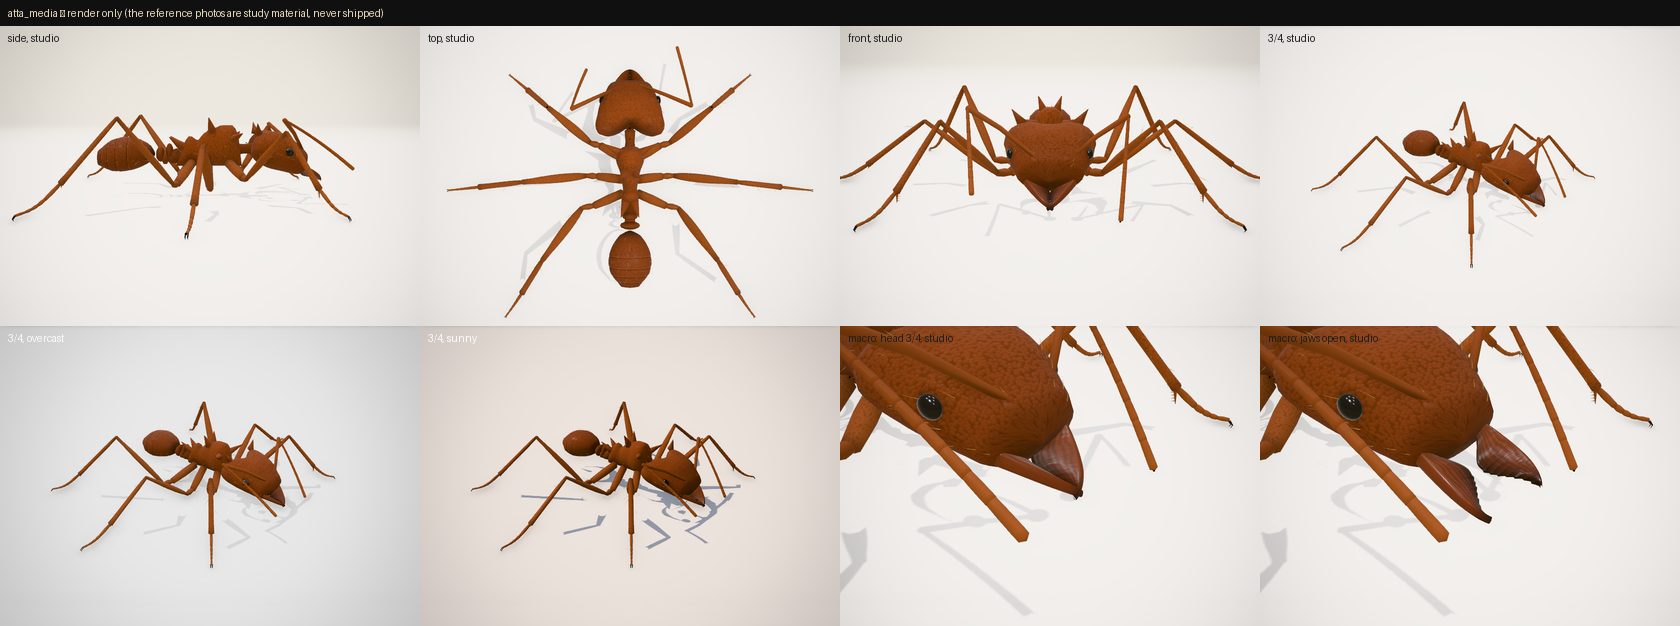
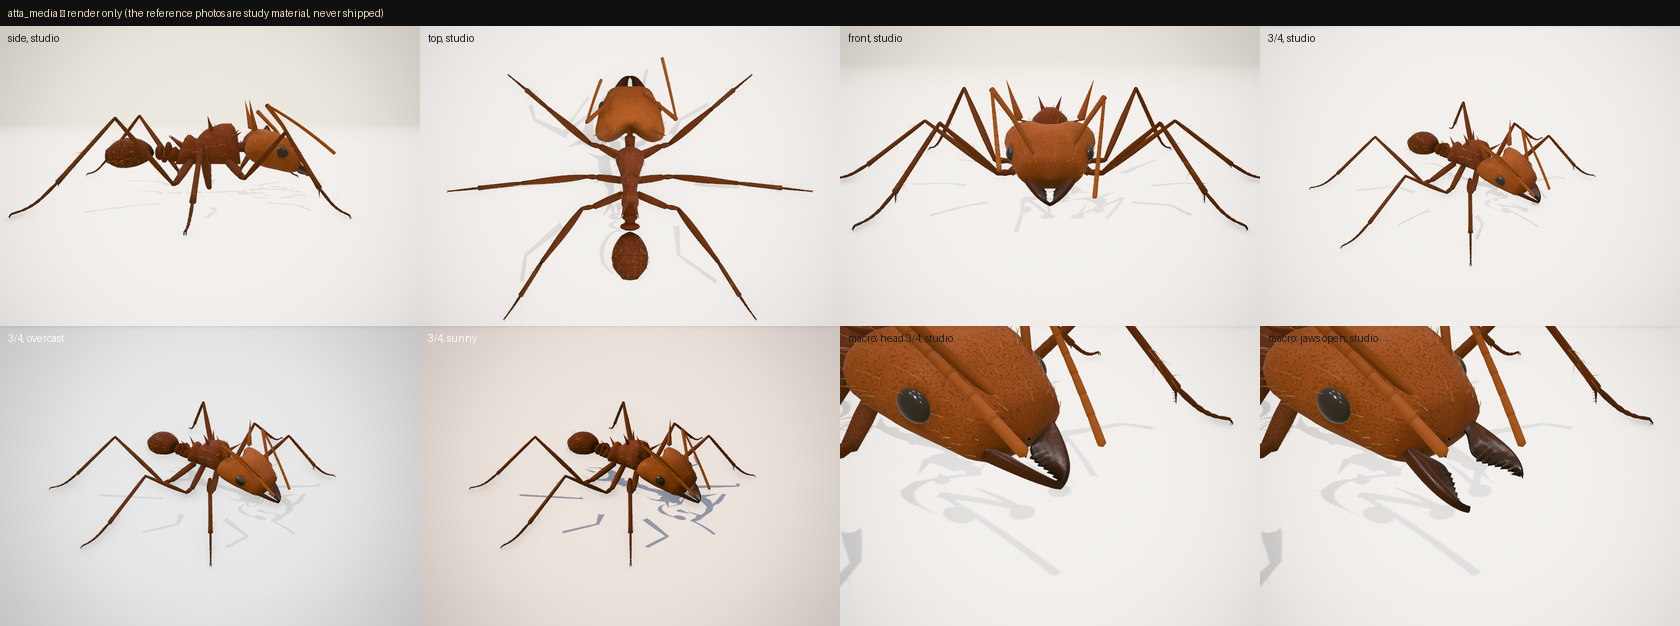
DESIGN and README: the realism rollout (Lasius, Formica, Atta, Eciton) and the lab's any-species clips
Claude-Session: https://claude.ai/code/session_01MHhvayxRSszQFax75UpbXx

diff --git a/README.md b/README.md
@@ -173,6 +173,8 @@ npx vite-node tests/animation.ts                                    # animation 
 npx vite-node tools/anim-cost.ts -- 1040                            # the animation controller's CPU cost per frame for a crowd
 # animation lab (dev server): ?scene=animlab&clip=atk1 — attacks atk0–2, major0–1, flag, hits, deaths (by cause), fling, walk, stag_*;
 # &cdist= / &ctx= / &ctz= move the camera; tests/browser/anim_clips.py records clips (docs/realism/combat/)
+# any species in the lab: &ant=<morph>&big=<morph> (e.g. &ant=atta_media&big=atta_major); clip=spray (Formica's three sprayers), troph (Lasius)
+# realism sheets and clips per species: docs/realism/<species>/ (render only); the overnight report: docs/realism/OVERNIGHT-REPORT.md
 npx vite-node tests/fights.ts                                       # guard line, room in a fight, foes shared out, creatures apart, calm after a fight, marker orders (no attacking / gathering / climbing)
 npx vite-node tools/postfight.ts -- ant:lasius_soldier 20           # what fighters do once their foes are dead (zigzags, stop-start, states)
 npx vite-node tools/fightspread.ts -- ant:lasius_soldier 24 ant:formica_soldier 24   # how spread out a melee is, second by second

diff --git a/DESIGN.md b/DESIGN.md
@@ -328,6 +328,11 @@ Units: hp, damage, attack interval, armor, speed, range, mass, grip.
 * fire ant workers fight in bouts: a series of 3–5 stings on one grip, pivoting round it, then jaws-only attacks; majors crush and swing the head; alarm is the gaster-flagging threat display;
 * a heavy hit (over a fifth of an ant's life) knocks it back a step;
 * deaths by cause: the sim records what last hurt an ant (`Ant.lastHit`: bite, venom, acid, crush, fall, drown, starve, decapitation; deterministic) and the render plays that death; corpses dry and sink.
+* realism rollout (overnight 2026-10-31, `docs/realism/OVERNIGHT-REPORT.md`): Lasius, Formica (and the Gene Thief's
+  Formica), Atta and Eciton are realism morphs on the same animation — formicine jaws as flat triangular blades under a
+  down-tilted face, Formica's sprayers rearing and recoiling by spray kind, Lasius trophallaxis and aphid drumming;
+  Atta castes fight differently (minims cling, medias bite and hold, soldiers bite and head-slam, majors a braced
+  scissor crush) and cut leaves with an arcing body; Eciton workers bite and hold, soldiers hook and hold.
 
 **Tools:**
 * `tools/battle.ts`: equal-cost matchups.
